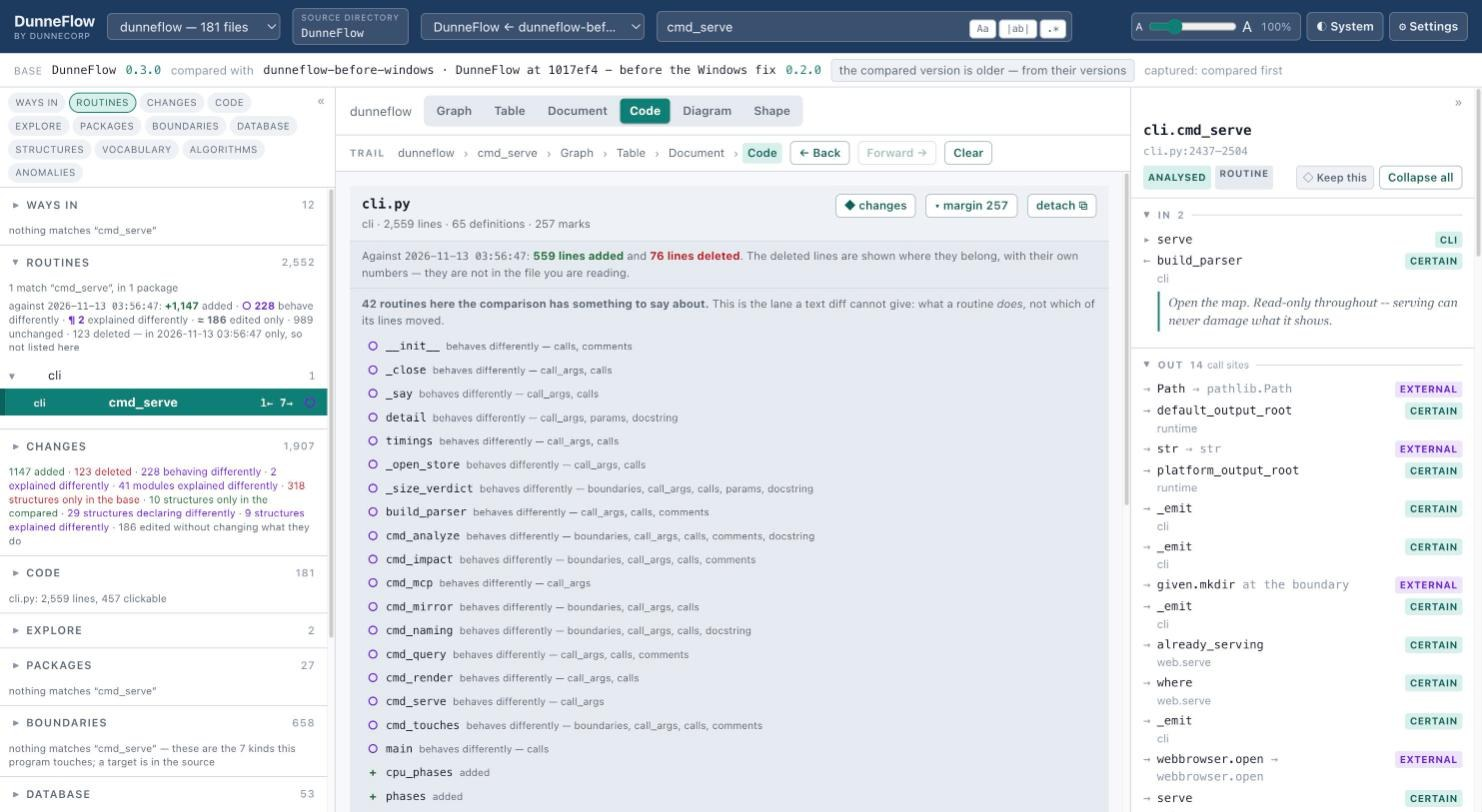
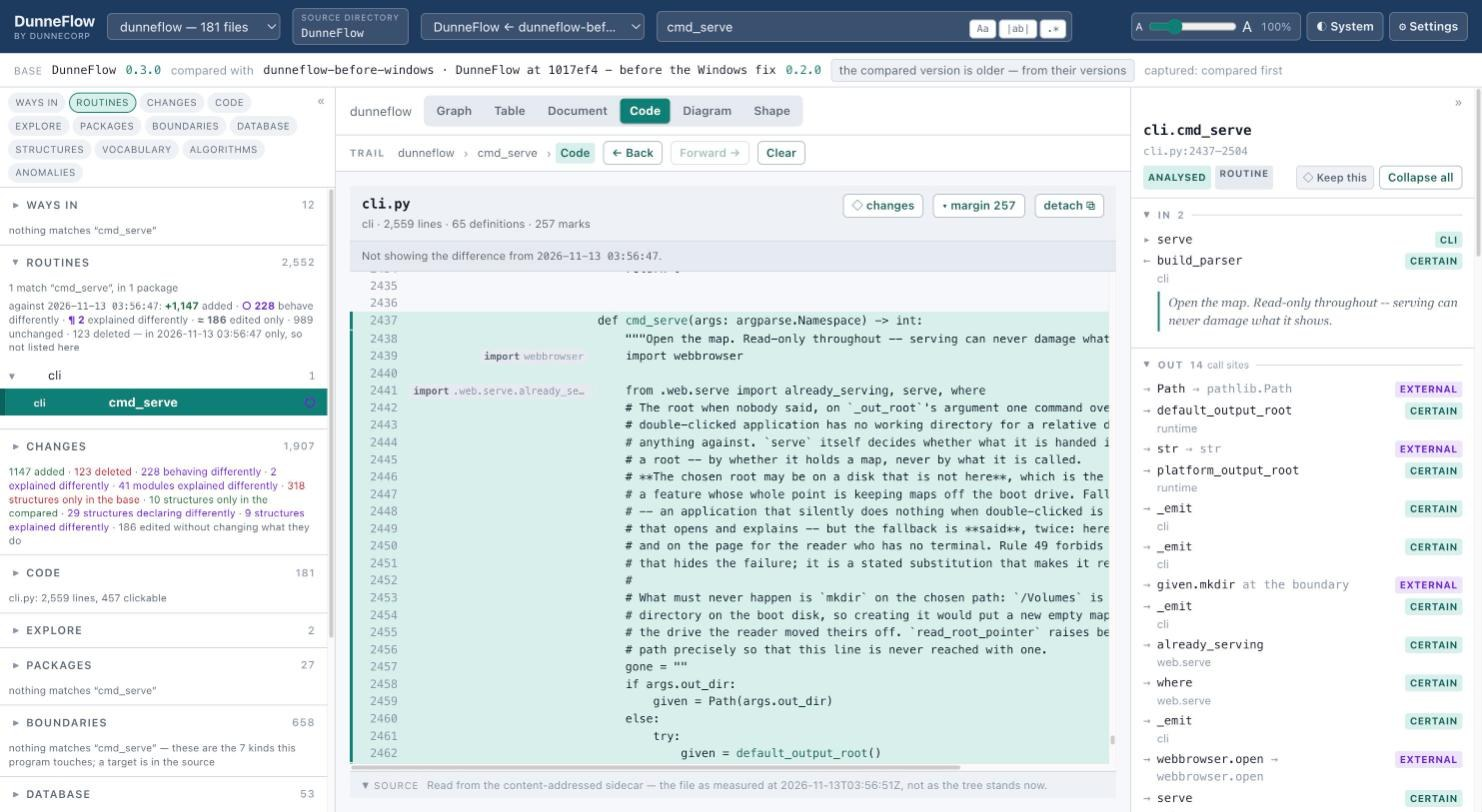
The guide says only what was measured, and chapter 9's picture shows the source
Tom's decision on the sentences the retake could not verify: change the
documentation to reflect reality in every case.

- 09-code.jpg is retaken with the comparison overlay switched off, so it shows
  what the chapter under it describes: the source, the margin's marks and the
  SOURCE line. The overlay's own picture is chapter 14's.
- Installing's two transcripts are real runs of this tree: one with nothing
  answering `node`, one with `--without typescript`. They said python 132 and
  files 131, from October and from each other.
- Map sizes are given for the 628-file program they were measured on and for
  this map; the migrate figure is the recorded 115,546 paths; the table's rank
  example is this map's.
- Sixteen detectors, with the timing said to have been taken when there were
  thirteen. The unfinished-map refusal gains its last sentence. The dispatch
  line is `touches` on this map's `Json.write`. A count nobody measured for a
  macro is gone, and the names that repeat are counted on this map.

Left as they were, because the repository's own measured record carries each:
Runtime's hours, the crossing counts and their timings, the plate ordering,
the 1,347-line argument, 92% of arguments, 86% of comment lines.

Changed region(s): [[0.2173, 0.3079, 0.776, 0.9852], [0.3725, 0.1539, 0.6829, 0.2155], [0.5587, 0.2463, 0.7449, 0.2771]]

diff --git a/docs/09-code.md b/docs/09-code.md
@@ -2,7 +2,7 @@
 
 The source, as it was measured.
 
-![Code mode showing cli.py: the header reads "cli · 2,559 lines · 65 definitions · 257 marks" with "◆ changes", "margin 257" and "detach ⧉" buttons; under it "Against 2026-11-13 03:56:47: 559 lines added and 76 lines deleted" and "42 routines here the comparison has something to say about", then the first of them — __init__, _close, _say, detail, timings, _open_store, _size_verdict, build_parser, cmd_analyze, cmd_impact, cmd_mcp, cmd_mirror, cmd_naming, cmd_query, cmd_render, cmd_serve, cmd_touches and main, each "behaves differently" with what moved beside it, then cpu_phases and phases, each "added". The list runs past the foot of the picture, so the source itself and the SOURCE line under it are out of frame. The navigator is filtered to the search "cmd_serve" and the inspector shows cli.cmd_serve](images/09-code.jpg)
+![Code mode showing cli.py with the comparison overlay switched off: the header reads "cli · 2,559 lines · 65 definitions · 257 marks" with "◇ changes", "margin 257" and "detach ⧉" buttons, and under it "Not showing the difference from 2026-11-13 03:56:47." The source is scrolled to cmd_serve, lines 2437 to 2462 tinted because the routine is the selection: "def cmd_serve(args: argparse.Namespace) -> int:", its docstring, "import webbrowser" and "from .web.serve import already_serving, serve, where", a long comment, then the first lines of its body, with cmd_serve and default_output_root underlined as links. In the margin beside lines 2439 and 2441 are the marks "import webbrowser" and "import .web.serve.already_se…". At the foot, "SOURCE Read from the content-addressed sidecar — the file as measured at 2026-11-13T03:56:51Z, not as the tree stands now." The navigator is filtered to the search "cmd_serve" and the inspector shows cli.cmd_serve](images/09-code.jpg)
 
 ## Where the text comes from
 
@@ -66,9 +66,12 @@ the main pane.
 
 With a compared version set, the difference is drawn over the lines.
 
-The picture at the top of this chapter was taken with one set: under the header, *Against
-2026-11-13 03:56:47: 559 lines added and 76 lines deleted*, and then the forty-two routines
-in `cli.py` the comparison has something to say about.
+The picture at the top of this chapter was taken with one set and the overlay switched
+off, which the line under the header says: *Not showing the difference from 2026-11-13
+03:56:47.* Switched on, the same file reads *Against 2026-11-13 03:56:47: 559 lines added
+and 76 lines deleted*, and then lists the forty-two routines in `cli.py` the comparison has
+something to say about; that picture is in [comparing two
+versions](14-comparing-two-versions.md).
 
 The line-level difference is what `git diff` gives you and gives you better. The half
 above it is the one nothing else can: **which routines behave differently, and in what

diff --git a/docs/01-installing.md b/docs/01-installing.md
@@ -190,10 +190,12 @@ per-element rate hidden inside one is not drawn as a loop, where the same rate w
 before you read the Algorithms page of a Kotlin program.
 
 If Node or Go is not there, DunneFlow reads everything else and says, at the end of the run
-and in the map, what it could not read and why:
+and in the map, what it could not read and why. This is its own source, read on a machine
+where nothing answered `node`:
 
 ```
-  read: python 132
+files 170 (parsed 170, cached 0, removed 0, failed 0) in 11.5s
+  read: cpp 11 · go 8 · java 11 · python 128 · rust 12
   not read, no toolchain: 11 files of typescript — typescript needs `node` ≥ 20.0.0 and
   nothing answers `node --version` on this machine. Install it (brew install node, or
   nodejs.org), or run again with `--without typescript` and the map will say those files
@@ -205,8 +207,8 @@ language yourself and get the same map of everything else, with the count of wha
 out recorded as your choice rather than the machine's:
 
 ```
-files 131 (parsed 131, cached 0, removed 0, failed 0) in 1.0s
-  read: python 131
+files 170 (parsed 170, cached 0, removed 0, failed 0) in 8.2s
+  read: cpp 11 · go 8 · java 11 · python 128 · rust 12
   declined by you: 11 typescript — this build has a reader for that language;
   drop --without to read them
 ```
@@ -233,13 +235,14 @@ Node is never looked for.
 
 ## Where maps are kept
 
-A map is not small. One snapshot of a 628-file program is about 160 MB, and each further
-version of the same program adds about 130 MB. Maps include a graph and a document store per snapshot,
-which are the two that are not shared.
+A map is not small, and it grows with the program. A snapshot is a graph and a document
+store, which are the two things not shared between versions: about 130 MB for each version
+of a 628-file program, and 17.7 MB for the one of DunneFlow's own 181 files this guide was
+photographed against.
 
 The copies DunneFlow keeps of what it read are the cheap part, and they are the reason it
-can still show you the code after the tree has moved on: for that same program they are
-4 MB of source and 20 MB of prose, held once by content and shared by every snapshot,
+can still show you the code after the tree has moved on: for the 628-file program they are
+4 MB of source and 20 MB of prose, and for DunneFlow's own three versions 2.5 MB and 2.2 MB, held once by content and shared by every snapshot,
 however many you capture.
 
 Where they go depends on which of the three you are running:

diff --git a/docs/12-chasing-rabbits.md b/docs/12-chasing-rabbits.md
@@ -62,8 +62,8 @@ your route.
 definition lost and should not have to find a particular pane first.
 
 **Every step carries what it *is*, not just what it is called.** Two different things can
-print the same name. On a real codebase, 531 routines share a module word and every
-package has an `__init__` so a trail that stored labels would take you back to the wrong
+print the same name. On DunneFlow's own map 876 routines share their name with at least one other — 21 are
+called `__init__` and seven `main` — so a trail that stored labels would take you back to the wrong
 one to deliver a wrong answer with great confidence.
 
 **The bar is a window onto the history, not the history itself.** It shows a dozen steps;
@@ -103,7 +103,7 @@ nowhere.
   the map minted it. Its row also recounts itself: *how many routines this stands for
   now*, not how many it stood for when you kept it.
 - **A line, or a loop at a line**, is only true of the version it was kept in. If you
-  switch to a different version the row says so: *kept at 2026-10-02T21:37:11Z, so this
+  switch to a different version the row says so: *kept at 2026-11-13T03:56:47Z, so this
   version may have moved line 92*.
 - **A box in a diagram** belongs to the drawing it was drawn in, and is valid at the
   altitude you drew it at. The row says that too.

diff --git a/docs/07-table.md b/docs/07-table.md
@@ -29,15 +29,15 @@ inspector, exactly as a navigator row does, and every other view follows.
 
 ## Finding yourself in it
 
-A large program's table is four thousand rows and about a quarter of a million pixels
-tall, with your selection somewhere in the middle of it. So the banner at the top always
+A large program's table is thousands of rows — 4,734 on one measured — and about a quarter
+of a million pixels tall, with your selection somewhere in the middle of it. So the banner at the top always
 states where you are:
 
 > SHOWING `cli.cmd_serve` — row 78 of 2,552 as sorted here · **Go to it**
 
 When you arrive in Table with something selected, the table scrolls to that row for you,
 every time you arrive; once you are there it leaves your scrolling alone. The rank is the
-useful part. *Row 3,214 of 4,734* says where you are in a list you cannot see all of, and
+useful part. *Row 1,791 of 2,552* says where you are in a list you cannot see all of, and
 **Go to it** brings you back after you have scrolled away to read around it. The number is
 taken from the same sorted list the table is drawing, so it cannot disagree with what you
 would find by scrolling — and *as sorted here* says so, because the same routine has a

diff --git a/docs/13-settings.md b/docs/13-settings.md
@@ -171,7 +171,7 @@ governs nothing is worse than no switch.
 |---|---|
 | **The code overlay** | A per-file difference and up to a few hundred marked lines. The dearest to read, because it makes the *code* harder to read. |
 | **The routine and table marks** | Free — drawn from an answer already held. |
-| **The findings overlay** | The dearest to compute: thirteen detectors run against a graph this process has never opened. On a 628-file program, 1.3 to 4.1 seconds the first time, nothing afterwards. Fetched when you open the worklist, not at boot. |
+| **The findings overlay** | The dearest to compute: every detector — sixteen of them — runs against a graph this process has never opened. On a 628-file program it measured 1.3 to 4.1 seconds the first time, when there were thirteen, and nothing afterwards. Fetched when you open the worklist, not at boot. |
 
 Wanting the free ones while reading clean code is an ordinary thing to want, and one switch
 could not express it.

diff --git a/docs/16-the-command-line.md b/docs/16-the-command-line.md
@@ -116,10 +116,11 @@ but **which ways into the program stop working**.
 **A call that several bodies may answer is followed into all of them.** In Java, a call to
 an interface method or to one a subclass overrides is decided by the object at run time,
 so there is no single routine to draw an edge to. Both questions go on into every body that
-could answer it, and say so:
+could answer it, and say so. This is `touches` on `Json.write`, in DunneFlow's own Java
+reader:
 
 ```
-  goes on by dispatch at 3 calls, into 4 bodies any of which may run: r.run, s.area, step
+  goes on by dispatch at 1 call, into 43 bodies any of which may run: w.writeJson
 ```
 
 and on the `impact` side, *reached by dispatch from …*. Those routines are counted in the

diff --git a/docs/10-diagram.md b/docs/10-diagram.md
@@ -26,8 +26,9 @@ its place:
 
 **fit** frames the whole drawing.
 
-**A dashed box is what a macro wrote**, one per macro per file, counted. `DECLARE_CYCLE_STAT` writes
-a class of seven accessors for every stat, and a drawing of those is a drawing of nothing. Select it
+**A dashed box is what a macro wrote**, one per macro per file, counted. A macro that writes
+a small class for every use of it gives a compartment hundreds of boxes nobody wrote, and a
+drawing of those is a drawing of nothing. Select it
 and the inspector lists them all; open it and they are drawn. A way in is never folded into one:
 `main` written by a macro is drawn as itself.
 

diff --git a/docs/14-comparing-two-versions.md b/docs/14-comparing-two-versions.md
@@ -207,8 +207,9 @@ to draw.
 
 **The anomaly worklist** can say which findings the other version also has, and whose
 count, severity or confidence moved. That one is the expensive overlay: on a 628-file program,
-1.3 to 4.1 seconds the first time, because it means running thirteen detectors against a graph this process
-has never opened.
+1.3 to 4.1 seconds the first time, because it means running every detector against a graph
+this process has never opened. (That was measured when there were thirteen of them; there
+are sixteen now.)
 
 ## What is never done to your snapshots
 

diff --git a/docs/04-your-first-map.md b/docs/04-your-first-map.md
@@ -239,7 +239,8 @@ own analysis finished, and every reader that vouches for a map checks:
 ```
 error: comitia was never finished: an analysis stopped while reading the documents.
 What it holds is part of a program, not a program. Analysing it again completes it —
-the extraction is cached, so it takes seconds rather than the whole run.
+the extraction is cached, so it takes seconds rather than the whole run. Or pass
+--allow-unfinished to read it as it stands.
 ```
 
 Analysing again does complete it, and it is quick: extraction is cached against the

diff --git a/docs/15-when-it-refuses.md b/docs/15-when-it-refuses.md
@@ -114,7 +114,7 @@ to rewrite it in place
 uv run dunneflow migrate output/some-project
 ```
 
-It rewrites the stored paths in place — on a large program, about 115,000 paths across five
+It rewrites the stored paths in place — on a 628-file program, 115,546 paths across five
 stores in a little over a second. **In place rather than by re-analysis**, deliberately: a
 sealed snapshot exists to be readable after its source tree is gone, and rebuilding would
 orphan exactly those.
